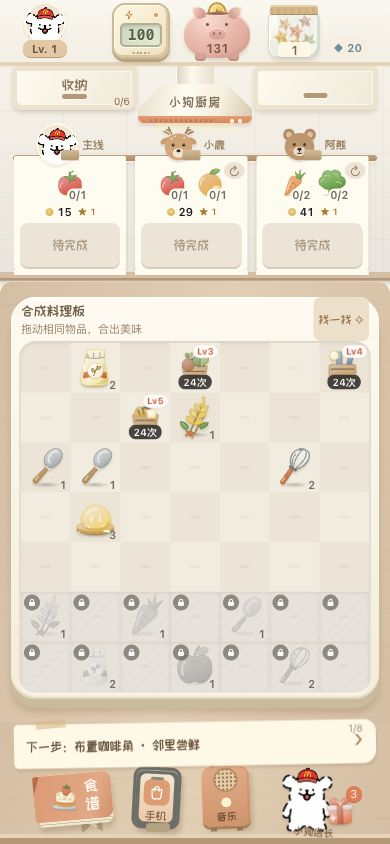
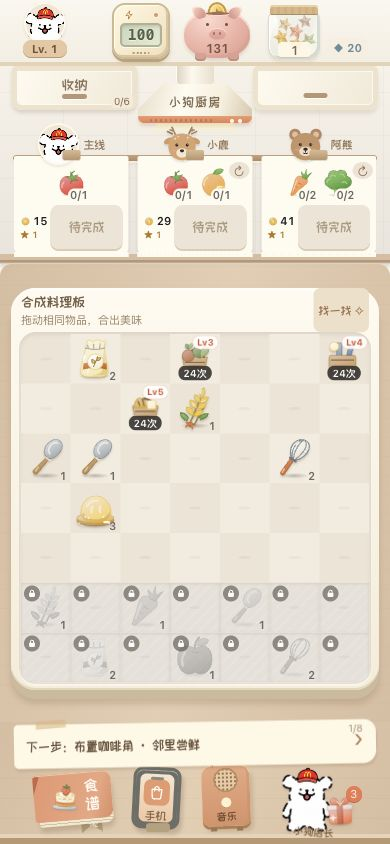
fix(kitchen-merge): retain full-width compact layout from latest main

diff --git a/kitchen-merge/dist/scene.css b/kitchen-merge/dist/scene.css
@@ -218,6 +218,6 @@ dialog[data-view="phone"] {background:linear-gradient(#f7e5cf,#f4e1c8);}
 #family-filter{width:100%;padding:12px;margin-bottom:12px;background:#fff8eb;color:#6b5949;border:1px solid #dcc8ad;border-radius:10px;font:inherit}.collection-item{border:1px solid #e7d9c5;background:#fffaf0;border-radius:12px;padding:8px;color:#6e5946}.collection-item>span{display:block;width:100%;aspect-ratio:1}.collection-item svg{width:100%;height:100%}.inventory-slot svg{max-width:100%;height:65px}.panel-actions{flex-wrap:wrap}.balance-task{padding:12px;background:#f8f0e2;border-radius:12px;margin:8px 0}.balance-task.done{opacity:.6}.save-recovery{max-width:540px;margin:60px auto;padding:24px;font-family:system-ui;color:#6f5841}
 @media(max-width:420px){.k-orders .order-card{flex-basis:31%;min-width:107px}.order-top h3{font-size:11px}.order-top p{font-size:9px}.order-refresh{font-size:13px}.order-bottom .reward small{font-size:9px}.selection-actions .small-button{padding:5px 8px;font-size:11px}}
 .qa-controls{position:sticky;top:0;z-index:20;padding:6px;display:flex;gap:8px;justify-content:center;background:#ead5af;font:11px system-ui}.qa-controls button,.qa-controls a{border:0;border-radius:5px;padding:4px;color:#6b5542;background:#fff8e7}
-.k-design .k-orders{display:flex;flex-wrap:nowrap;height:156px;align-items:flex-end;padding-top:34px;padding-bottom:5px;bottom:5px}.k-orders .order-card{flex-shrink:0;height:116px}.k-orders .order-refresh{position:absolute;right:3px;top:6px;z-index:2}
+.k-design .k-orders{display:flex;flex-wrap:nowrap;height:calc(var(--order-card-height) + 40px);align-items:flex-end;padding-top:34px;padding-bottom:5px;bottom:5px}.k-orders .order-card{flex-shrink:0;flex-basis:calc((100% - 18px)/3);height:var(--order-card-height)}.k-orders .order-refresh{position:absolute;right:3px;top:6px;z-index:2}
 .k-orders .main-order-avatar{flex:none;width:42px;height:42px;background-size:537.6px 800.8px;background-position:-12.25px -8.75px}.k-orders .order-top h3{overflow-wrap:anywhere}
 .k-orders .order-empty{font-size:11px;line-height:1.5;padding:12px 8px}.order-empty strong{display:block;margin-bottom:8px}

diff --git a/kitchen-merge/docs/verification/2026-10-16/README.md b/kitchen-merge/docs/verification/2026-10-16/README.md
@@ -1,6 +1,6 @@
 # 新数值实现验收
 
-2026-10-16。本目录为本地验证证据；线上未部署。起点为 `416eed4`，实现后已衔接main `2b6d6fe`（小狗店长、LCD、紧凑布局和点击选中/拖动移动），完整交接19文件SHA-256校验通过，随后导入18份设计文件，更新实际接入说明。
+2026-10-16。本目录为本地验证证据；线上未部署。起点为 `416eed4`，实现后已衔接main `5a04237`（小狗店长、LCD、紧凑布局和点击选中/拖动移动），完整交接19文件SHA-256校验通过，随后导入18份设计文件，更新实际接入说明。
 
 ## 自动验证
 

diff --git a/kitchen-merge/docs/BALANCE_IMPLEMENTATION.md b/kitchen-merge/docs/BALANCE_IMPLEMENTATION.md
@@ -1,6 +1,6 @@
 # 新数值运行时交付说明
 
-2026-10-16。实现已衔接最新main `2b6d6fe` 的小狗店长、LCD电表、紧凑布局和点击选中/拖动移动交互。默认入口 `dist/index.html` 已使用存档 v3 与 `balanceVersion=kitchen-reference-v1-draft`。
+2026-10-16。实现已衔接最新main `5a04237` 的小狗店长、LCD电表、紧凑布局和点击选中/拖动移动交互。默认入口 `dist/index.html` 已使用存档 v3 与 `balanceVersion=kitchen-reference-v1-draft`。
 
 ## 配置与入口
 
